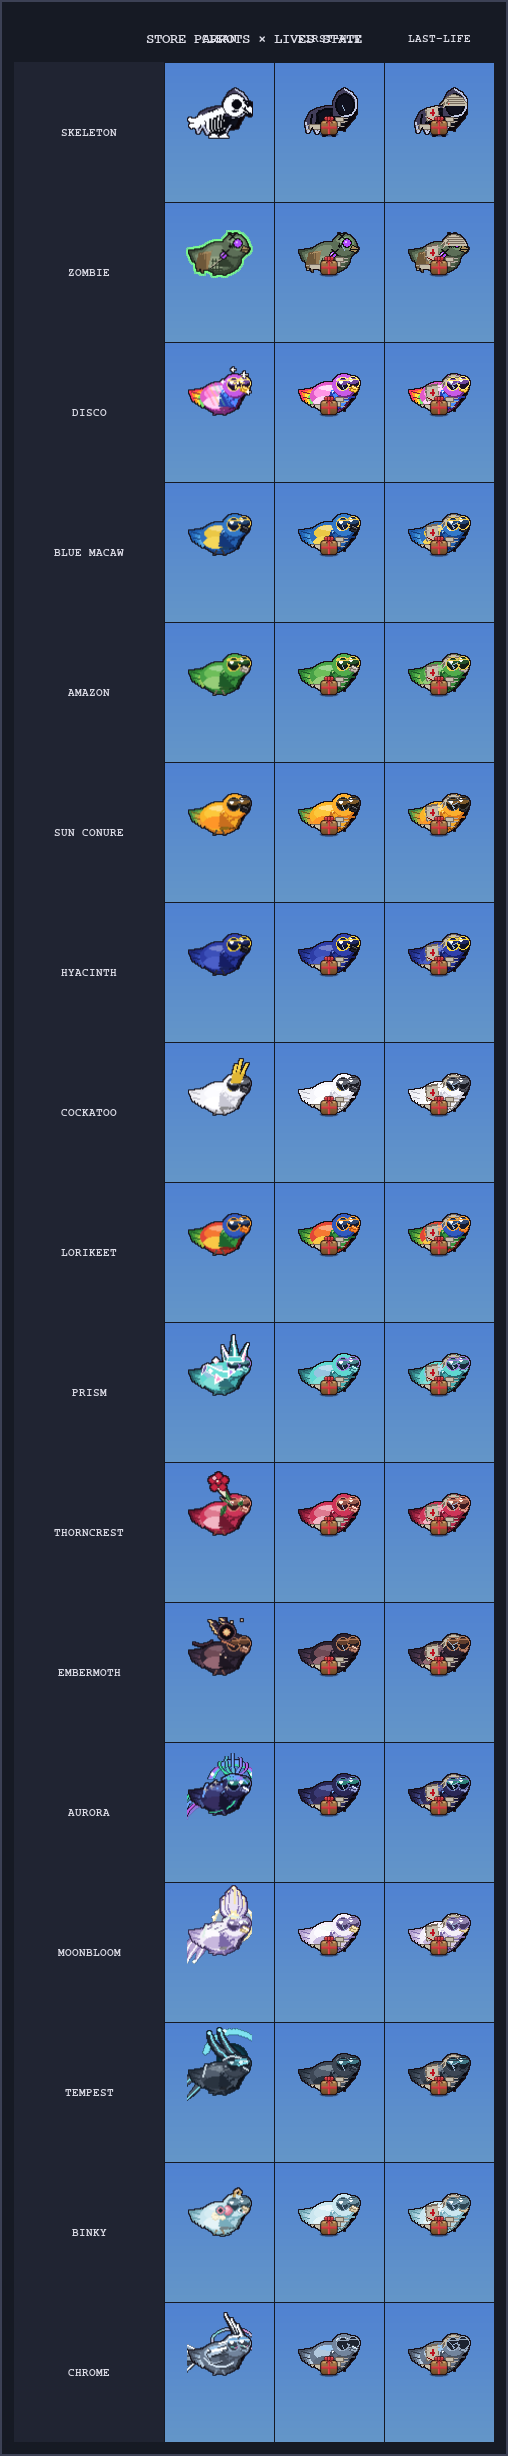
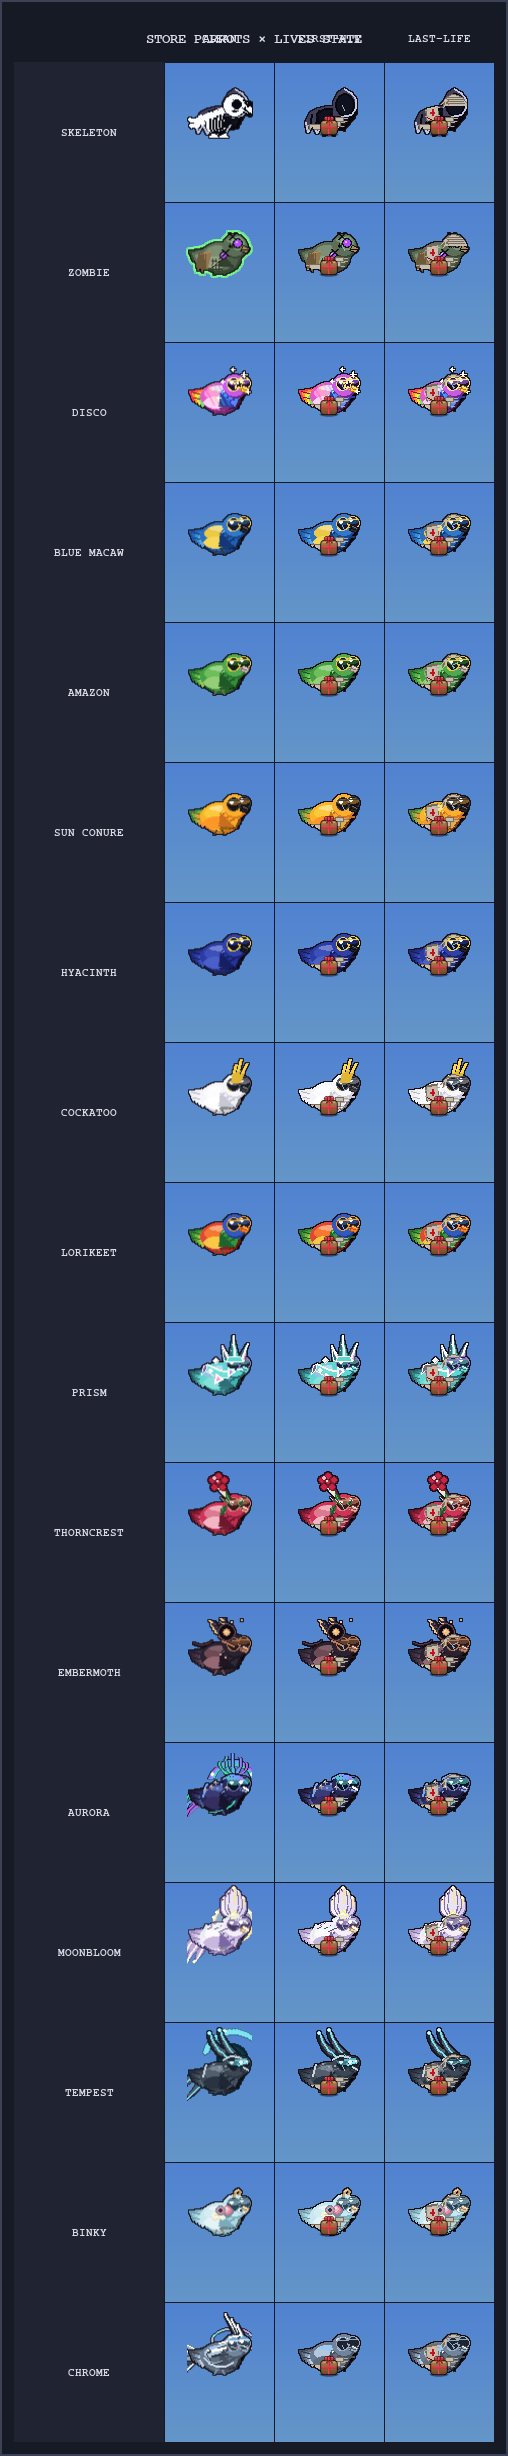
Fix store parrot lives grid: preserve accessories, fix beak z-order
- Add paint_fn column to SKINS table so cockatoo crest, prism facets,
  thorncrest vines, embermoth eyespots, disco star-lenses, aurora/
  moonbloom/tempest compositing layers survive hurt states
- Use 64×100 composite approach for paint_fn skins: blit body at
  PARROT_DY, call paint_fn, extract subsurface view for dressings
- Add _redraw_beak() helper that re-draws beak polygon after
  _draw_lenses so the beak is never occluded by the right aviator lens
- Split build helpers into _simple (pure palette) and _composite
  (paint_fn) variants for first_hit and last_life

Claude-Session: https://claude.ai/code/session_01SYxW5bMXxMEcZRx1arfvCN

diff --git a/docs/render_store_parrot_lives_grid.py b/docs/render_store_parrot_lives_grid.py
@@ -19,10 +19,14 @@ from game.parrot import (
 )
 from game.dollar_parrot_ghost import _build_parrot_with_palette, _draw_lenses
 from game.store_skins import (
+    PARROT_DY,
     P_DISCO, P_BLUEGOLD, P_AMAZON, P_SUNCONURE, P_HYACINTH,
     P_COCKATOO, P_LORIKEET, P_PRISM, P_THORNCREST, P_EMBERMOTH,
     _AURORA_PAL, P_MOONBLOOM, P_TEMPEST, P_BINKY, P_CHROME,
     _build_voodoo_zombie,
+    _paint_disco, _paint_cockatoo_crest, _paint_prism,
+    _paint_thorncrest, _paint_embermoth, _paint_binky,
+    _aurora_front, _moonbloom_front, _tempest_front,
 )
 from game.skeleton_skin import _flesh_base
 
@@ -44,26 +48,26 @@ SKY_BOT   = (100, 150, 200)
 COLS = ["CLEAN", "FIRST-HIT", "LAST-LIFE"]
 COL_STATES = ["clean", "first_hit", "last_life"]
 
-# Rows: (skin_id, display_name, palette | None, special)
+# Rows: (skin_id, display_name, palette | None, paint_fn | None, special)
 # special: None | "skeleton" | "zombie"
 SKINS = [
-    ("skin_skeleton",  "SKELETON",    None,        "skeleton"),
-    ("skin_zombie",    "ZOMBIE",      None,        "zombie"),
-    ("skin_disco",     "DISCO",       P_DISCO,     None),
-    ("skin_bluegold",  "BLUE MACAW",  P_BLUEGOLD,  None),
-    ("skin_amazon",    "AMAZON",      P_AMAZON,    None),
-    ("skin_sunconure", "SUN CONURE",  P_SUNCONURE, None),
-    ("skin_hyacinth",  "HYACINTH",    P_HYACINTH,  None),
-    ("skin_cockatoo",  "COCKATOO",    P_COCKATOO,  None),
-    ("skin_lorikeet",  "LORIKEET",    P_LORIKEET,  None),
-    ("skin_prism",     "PRISM",       P_PRISM,     None),
-    ("skin_thorncrest","THORNCREST",  P_THORNCREST,None),
-    ("skin_embermoth", "EMBERMOTH",   P_EMBERMOTH, None),
-    ("skin_aurora",    "AURORA",      _AURORA_PAL, None),
-    ("skin_moonbloom", "MOONBLOOM",   P_MOONBLOOM, None),
-    ("skin_tempest",   "TEMPEST",     P_TEMPEST,   None),
-    ("skin_binky",     "BINKY",       P_BINKY,     None),
-    ("skin_chrome",    "CHROME",      P_CHROME,    None),
+    ("skin_skeleton",   "SKELETON",   None,        None,                  "skeleton"),
+    ("skin_zombie",     "ZOMBIE",     None,        None,                  "zombie"),
+    ("skin_disco",      "DISCO",      P_DISCO,     _paint_disco,          None),
+    ("skin_bluegold",   "BLUE MACAW", P_BLUEGOLD,  None,                  None),
+    ("skin_amazon",     "AMAZON",     P_AMAZON,    None,                  None),
+    ("skin_sunconure",  "SUN CONURE", P_SUNCONURE, None,                  None),
+    ("skin_hyacinth",   "HYACINTH",   P_HYACINTH,  None,                  None),
+    ("skin_cockatoo",   "COCKATOO",   P_COCKATOO,  _paint_cockatoo_crest, None),
+    ("skin_lorikeet",   "LORIKEET",   P_LORIKEET,  None,                  None),
+    ("skin_prism",      "PRISM",      P_PRISM,     _paint_prism,          None),
+    ("skin_thorncrest", "THORNCREST", P_THORNCREST,_paint_thorncrest,     None),
+    ("skin_embermoth",  "EMBERMOTH",  P_EMBERMOTH, _paint_embermoth,      None),
+    ("skin_aurora",     "AURORA",     _AURORA_PAL, _aurora_front,         None),
+    ("skin_moonbloom",  "MOONBLOOM",  P_MOONBLOOM, _moonbloom_front,      None),
+    ("skin_tempest",    "TEMPEST",    P_TEMPEST,   _tempest_front,        None),
+    ("skin_binky",      "BINKY",      P_BINKY,     _paint_binky,          None),
+    ("skin_chrome",     "CHROME",     P_CHROME,    None,                  None),
 ]
 
 
@@ -81,31 +85,74 @@ def fill_sky(surf):
         pygame.draw.line(surf, (r, g, b), (0, y), (w - 1, y))
 
 
-def _build_first_hit(palette):
+def _redraw_beak(surf, P):
+    """Re-draw beak on top of lenses to restore correct z-order."""
+    beak_pts = [(55, 21), (61, 24), (58, 28), (52, 26)]
+    pygame.draw.polygon(surf, P['beak_main'], beak_pts)
+    pygame.draw.polygon(surf, P['beak_dark'], beak_pts, 1)
+    pygame.draw.line(surf, P['beak_gloss'], (55, 22), (59, 24), 1)
+    pygame.draw.line(surf, P['beak_dark'],  (52, 24), (58, 25), 1)
+
+
+def _build_first_hit_simple(palette):
+    """First-hit for pure-palette skins (no accessories)."""
     base = _build_parrot_with_palette(10.0, palette)
     _h_draw_bandaids(base)
     _fh_draw_single_crack(base)
     return _add_outline(base)
 
 
-def _build_last_life(palette):
+def _build_last_life_simple(palette):
+    """Last-life for pure-palette skins (no accessories)."""
     base = _build_parrot_with_palette(10.0, palette, draw_lenses=False)
     _h_draw_bandaids(base)
     _h_draw_headwrap(base)
     _draw_lenses(base, 50, 20, palette)
+    _redraw_beak(base, palette)
     _h_draw_chest_dressing(base)
     _h_draw_ragged_cuts(base)
     _h_draw_cracked_lens(base)
     return _add_outline(base)
 
 
+def _build_first_hit_composite(palette, paint_fn):
+    """First-hit for skins with accessories: preserves paint_fn layer."""
+    body = _build_parrot_with_palette(10.0, palette, draw_lenses=True)
+    comp = pygame.Surface((64, 100), pygame.SRCALPHA)
+    comp.blit(body, (0, PARROT_DY))
+    paint_fn(comp, 10.0)
+    sprite = comp.subsurface((0, PARROT_DY, 64, 60))
+    _h_draw_bandaids(sprite)
+    _fh_draw_single_crack(sprite)
+    return _add_outline(comp)
+
+
+def _build_last_life_composite(palette, paint_fn):
+    """Last-life for skins with accessories: preserves paint_fn layer."""
+    body = _build_parrot_with_palette(10.0, palette, draw_lenses=False)
+    comp = pygame.Surface((64, 100), pygame.SRCALPHA)
+    comp.blit(body, (0, PARROT_DY))
+    paint_fn(comp, 10.0)
+    sprite = comp.subsurface((0, PARROT_DY, 64, 60))
+    _h_draw_bandaids(sprite)
+    _h_draw_headwrap(sprite)
+    _draw_lenses(sprite, 50, 20, palette)
+    _redraw_beak(sprite, palette)
+    _h_draw_chest_dressing(sprite)
+    _h_draw_ragged_cuts(sprite)
+    _h_draw_cracked_lens(sprite)
+    return _add_outline(comp)
+
+
 def _build_special_first_hit(base_surf):
+    """First-hit for skeleton/zombie (no lenses)."""
     _h_draw_bandaids(base_surf)
     _fh_draw_single_crack(base_surf)
     return _add_outline(base_surf)
 
 
 def _build_special_last_life(base_surf):
+    """Last-life for skeleton/zombie (no lenses)."""
     _h_draw_bandaids(base_surf)
     _h_draw_headwrap(base_surf)
     _h_draw_chest_dressing(base_surf)
@@ -113,7 +160,7 @@ def _build_special_last_life(base_surf):
     return _add_outline(base_surf)
 
 
-def render_cell(skin_id, palette, lives_state, special):
+def render_cell(skin_id, palette, paint_fn, lives_state, special):
     cell = pygame.Surface((CELL_W, CELL_H))
     fill_sky(cell)
 
@@ -127,8 +174,10 @@ def render_cell(skin_id, palette, lives_state, special):
             img = _build_special_first_hit(_flesh_base(10.0))
         elif special == "zombie":
             img = _build_special_first_hit(_build_voodoo_zombie(10.0))
+        elif paint_fn is not None:
+            img = _build_first_hit_composite(palette, paint_fn)
         else:
-            img = _build_first_hit(palette)
+            img = _build_first_hit_simple(palette)
         cell.blit(img, img.get_rect(center=(CELL_W // 2, BIRD_Y)))
         cell.blit(par, par.get_rect(center=(CELL_W // 2, BIRD_Y + 12)))
     else:  # last_life
@@ -136,8 +185,10 @@ def render_cell(skin_id, palette, lives_state, special):
             img = _build_special_last_life(_flesh_base(10.0))
         elif special == "zombie":
             img = _build_special_last_life(_build_voodoo_zombie(10.0))
+        elif paint_fn is not None:
+            img = _build_last_life_composite(palette, paint_fn)
         else:
-            img = _build_last_life(palette)
+            img = _build_last_life_simple(palette)
         cell.blit(img, img.get_rect(center=(CELL_W // 2, BIRD_Y)))
         cell.blit(par, par.get_rect(center=(CELL_W // 2, BIRD_Y + 12)))
 
@@ -168,7 +219,7 @@ def main():
         canvas.blit(surf, surf.get_rect(center=(cx, cy)))
 
     # rows
-    for ri, (skin_id, display_name, palette, special) in enumerate(SKINS):
+    for ri, (skin_id, display_name, palette, paint_fn, special) in enumerate(SKINS):
         row_top = MARGIN + HDR_H + ri * CELL_H
 
         # label panel
@@ -182,7 +233,7 @@ def main():
         # cells
         for ci, (col_label, col_state) in enumerate(zip(COLS, COL_STATES)):
             cell_x = MARGIN + LABEL_W + ci * CELL_W
-            cell = render_cell(skin_id, palette, col_state, special)
+            cell = render_cell(skin_id, palette, paint_fn, col_state, special)
             canvas.blit(cell, (cell_x, row_top))
             # 1-px divider
             pygame.draw.rect(canvas, BG, (cell_x, row_top, CELL_W, 1))
